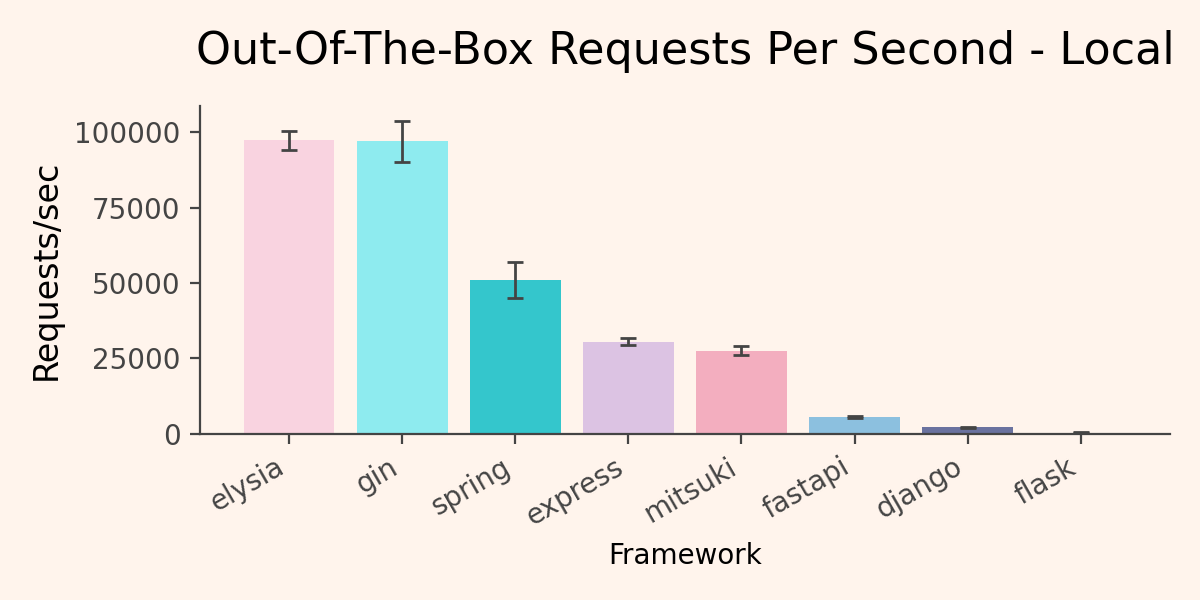
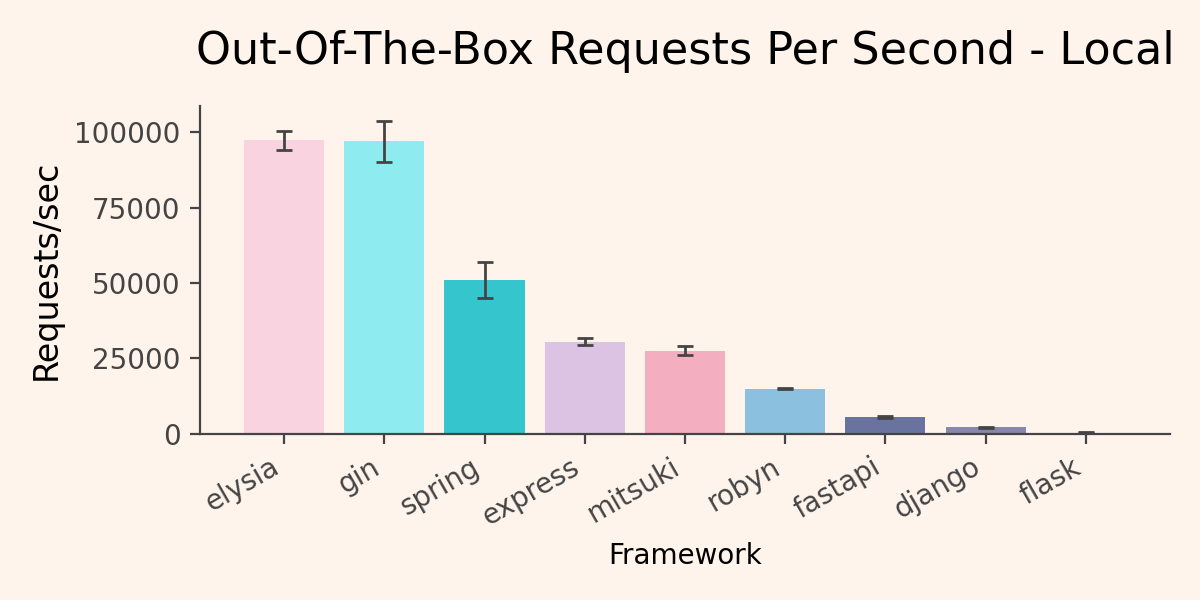
❀[BENCHMARKS] Add local results for Robyn

Changed region(s): [[0.2467, 0.18, 0.8942, 0.87], [0.1542, 0.75, 0.2467, 0.84], [0.2158, 0.21, 0.2467, 0.24]]

diff --git a/benchmarks/README.md b/benchmarks/README.md
@@ -46,6 +46,7 @@ Running locally, frameworks are unbound more strongly to utilize available resou
 | spring | 50844.66 | 5940.0 |
 | express | 30504.05 | 1270.0 |
 | mitsuki | 27463.62 | 1530.0 |
+| robyn | 14815.5 | 167.04 |
 | fastapi | 5400.46 | 276.4 |
 | django | 2021.07 | 54.67 |
 | flask | 320.72 | 220.92 |
